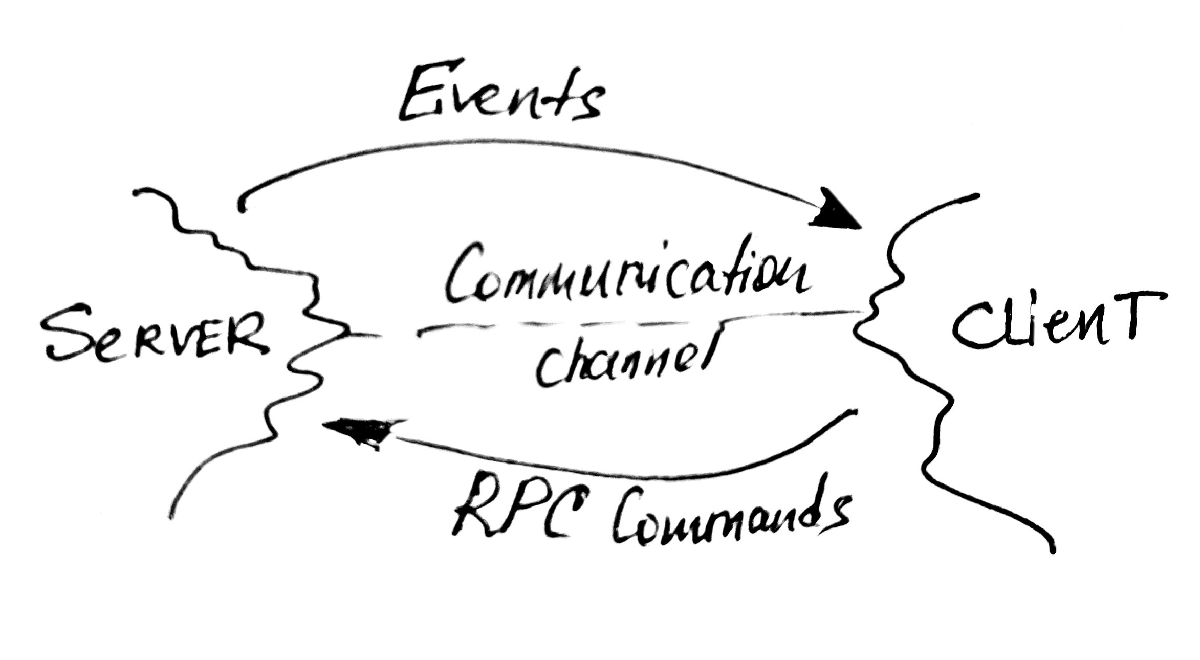
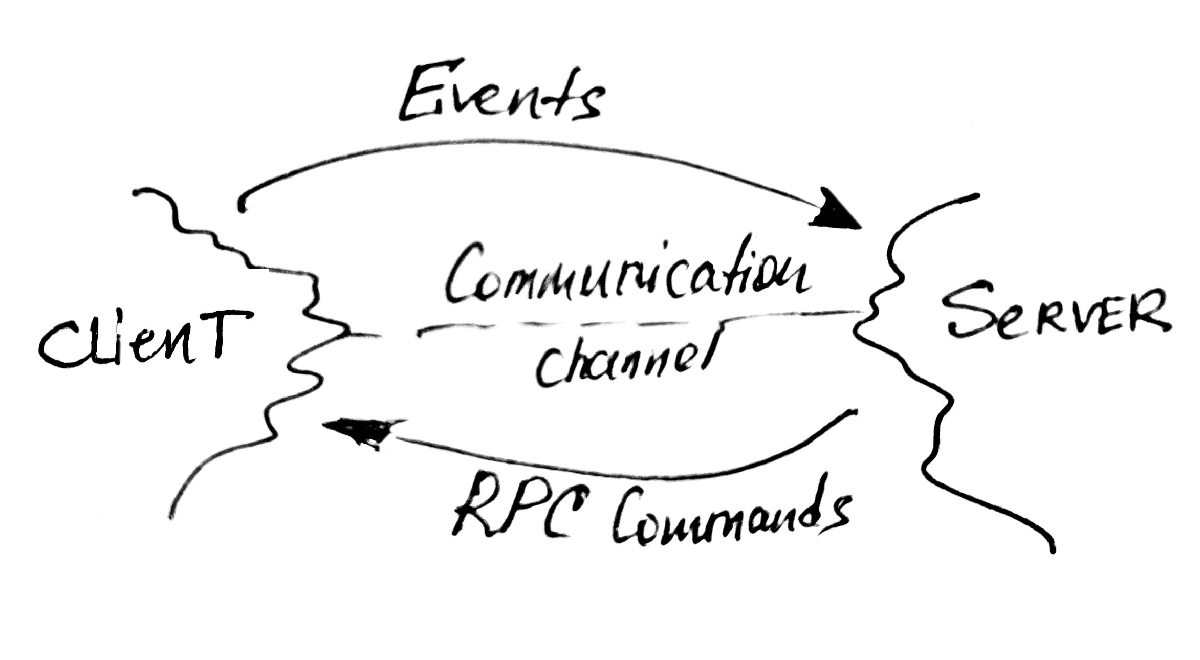
Update diagrams: change Python server to client

Changed region(s): [[0.7708, 0.4242, 0.9867, 0.5455], [0.0308, 0.4545, 0.2467, 0.5758]]

diff --git a/index.html b/index.html
@@ -1,7 +1,8 @@
 <!DOCTYPE html>
 <html lang="en">
 <head>
-    <title>React renderers architecture</title>
+    <title>Build your own React Native with Python and Gtk</title>
+
     <meta charset="utf-8">
     <meta http-equiv="x-ua-compatible" content="ie=edge">
     <meta name="viewport" content="width=device-width, initial-scale=1">
@@ -48,27 +49,25 @@
     </script>
 </head>
 <body class="shower list">
-    <header class="caption">
-        <h1>React renderer architecture</h1>
-    </header>
     <section class="slide" id="cover">
 
-        <h2>React renderer architecture</h2>
+        <h2>Build Your Own <br /> React Native with Python and Gtk!</h2>
 
         <img src="images/react-logo.png" />
         <style>
             #cover {
                 text-align: center;
             }
+
             #cover img {
                 width: 600px;
             }
 
             #cover h2 {
-                margin:120px 0 0;
-                color:black;
-                text-align:center;
-                font-size: 100px;
+                margin: 120px 0 0;
+                color: black;
+                text-align: center;
+                font-size: 70px;
             }
 
             .performance img {
@@ -240,33 +239,6 @@
         </style>
     </section>
 
-    <section class="slide" id="cover">
-
-        <h2>Build Your Own <br /> React Native!</h2>
-
-        <img src="images/react-logo.png" />
-        <style>
-            #cover {
-                text-align: center;
-            }
-
-            #cover img {
-                width: 600px;
-            }
-
-            #cover h2 {
-                margin: 120px 0 0;
-                color: black;
-                text-align: center;
-                font-size: 100px;
-            }
-
-            .performance img {
-                width: 100%;
-            }
-        </style>
-    </section>
-
     <section class="slide" id="rn-meme">
         <div class="image-center-container">
             <img src="./images/build-rn-one-video.jpg" width="600">
@@ -358,6 +330,8 @@
             Python, Gtk
             <br />
             Imperative API
+            <br />
+            * No React Yet
         </h2>
     </section>
 
@@ -388,7 +362,7 @@
     <section class="slide">
         <h2>What do we send?</h2>
         <div class="image-center-container">
-            <img src="./images/what_do_we_send.png" width="800" height="550" />
+            <img src="./images/what_do_we_send.png" width="750" height="500" />
         </div>
     </section>
 
@@ -442,13 +416,15 @@
             Python, Gtk
             <br />
             Imperative API via RPC
+            <br />
+            No React Renderer
         </h2>
     </section>
 
     <section class="slide">
         <h2>Architecture diagram</h2>
         <div class="image-center-container">
-            <img src="./images/concept_react_full_scheme.jpg" width="900" height="500" />
+            <img src="./images/concept_react_full_scheme.png" width="900" height="500" />
         </div>
     </section>
 
